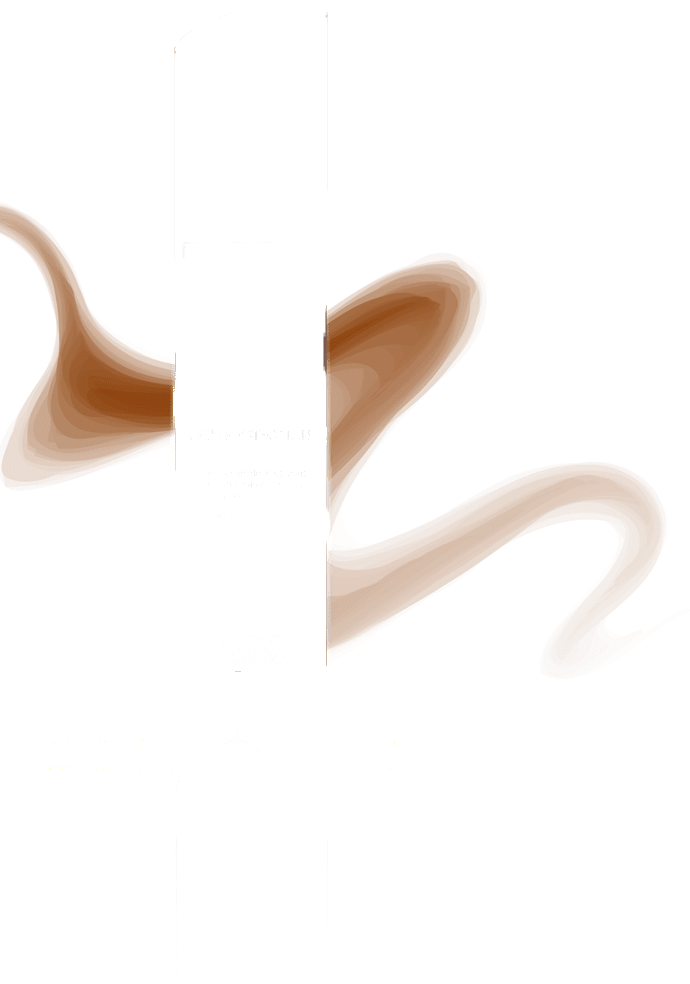
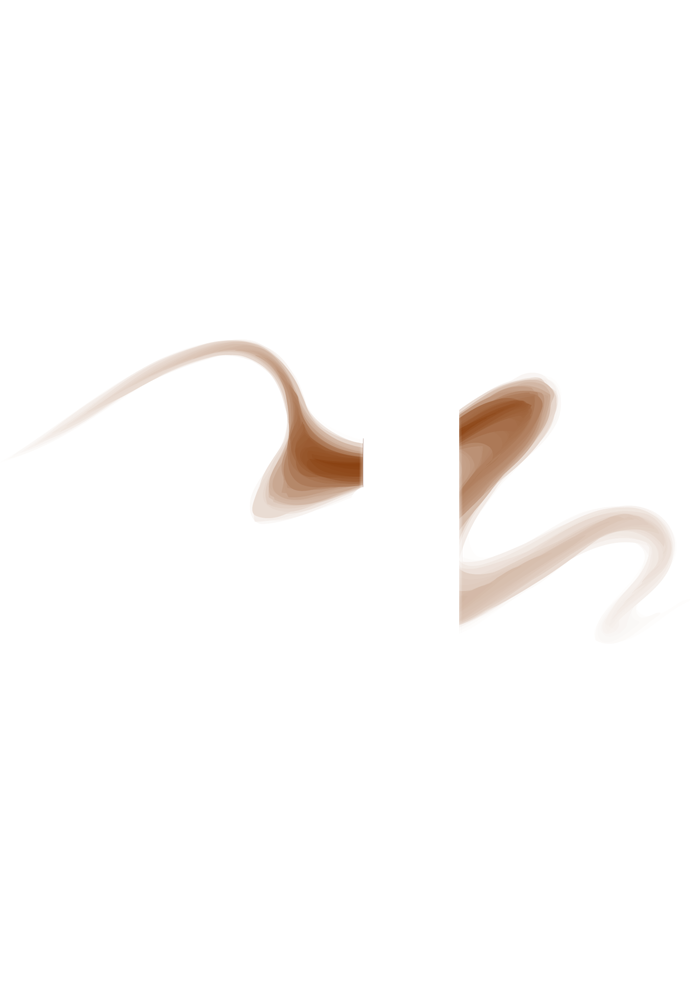
anims

Changed region(s): [[0.0, 0.2134, 0.9739, 0.6707]]

diff --git a/assets/css/style.css b/assets/css/style.css
@@ -522,20 +522,24 @@ main{
   position: absolute;
   z-index: 13;
   width: 32.96vw;
-  height: 47.55vw;
-  left: -4.2vw;
-  bottom: -10.5vw;;
+  height: 45.55vw;
+  /* height: 47.55vw; */
+  bottom: -5.6vw;
+  left: -1.9vw;
+  /* left: -4.2vw; */
+  /* bottom: -10.5vw;; */
 }
 .smoke{
-  transition: 6s;
-  opacity: 0.2;
+  transition-timing-function: linear;
+  transition: 5s;
+  opacity: 0.1;
   position: absolute;
   z-index: 13;
   /* width: 32.96vw; */
   width: 30vw;
-  left:1.45vw;
+  left:-5vw;
   height: 47.55vw;
-  bottom: -10.5vw;;
+  bottom: -8vw;;
 
 }
 .crayon{

diff --git a/assets/js/app.js b/assets/js/app.js
@@ -20,8 +20,10 @@ function crayonAnim(){
   crayonShadow.style.bottom = '-17.59vw';
   crayonShadow.style.opacity = '1';
   smoke.style.opacity = '1';
-  smoke.style.left = '0';
-  smoke.style.width = '32.96vw';
+  smoke.style.left = '-18.8vw';
+  smoke.style.width = '51.5vw';
+  smoke.style.height = '65vw';
+  smoke.style.bottom = "-13.5vw";
 };
 
 //sticky menu
